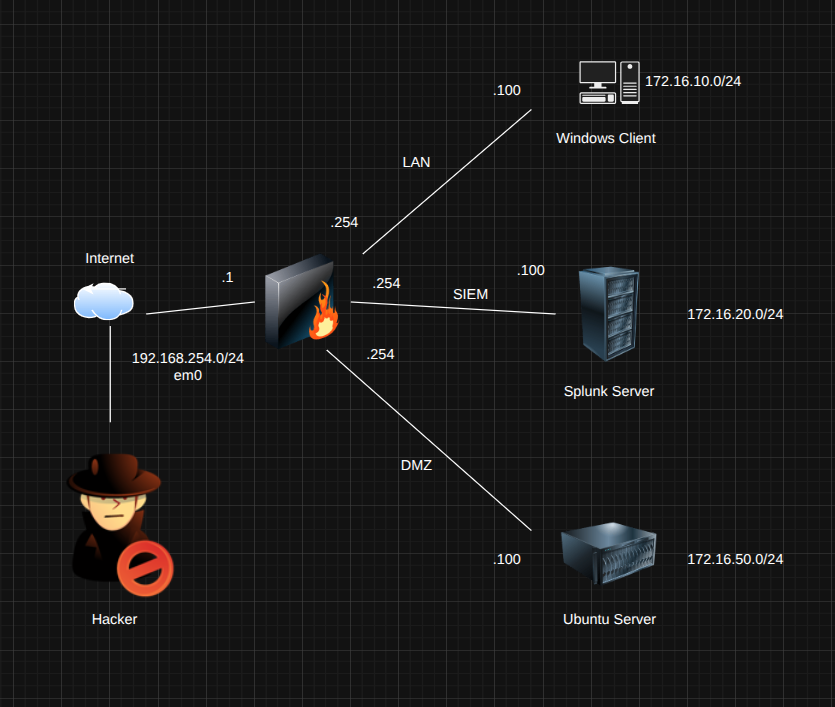
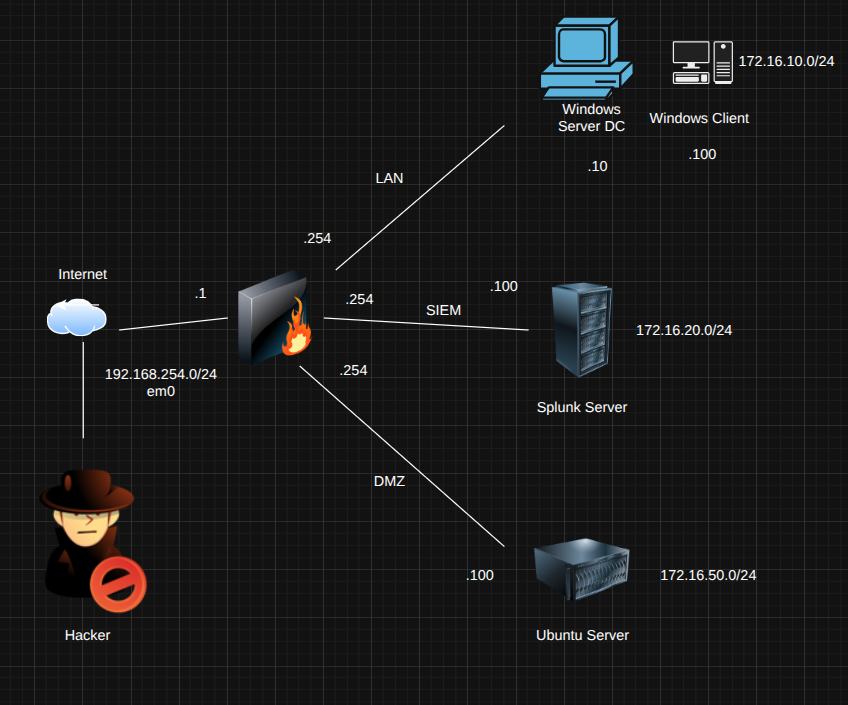
lab3

diff --git a/_posts/2026-03-11-SOC-lab2.md b/_posts/2026-03-11-SOC-lab2.md
@@ -1,0 +1,184 @@
+---
+title: "SOC lab part 2"
+date: 2026-03-11 12:00:00 +0700
+categories: [lab]
+tags: [lab]
+image:
+  path: /assets/img/posts/SOC_LAB/banner.png
+---
+Phần 2 của lab tập trung vào 3 nội dung chính:
+- Xây dựng Active Directory
+- Thiết lập Remote Access VPN bằng OpenVPN kết hợp xác thực Active Directory
+- Cấu hình Dynamic DNS (No-IP) và xuất file cấu hình VPN client
+
+## Tạo Windows Server
+Đầu tiên, đặt IP tĩnh cho Windows Server.
+
+![alt text](/assets/img/posts/SOC_LAB2/image-50.png)
+
+Kiểm tra kết nối đến pfSense bằng lệnh ping.
+![alt text](/assets/img/posts/SOC_LAB2/image-51.png)
+
+Cài đặt Active Directory Domain Services (AD DS).
+![alt text](/assets/img/posts/SOC_LAB2/image-52.png)
+![alt text](/assets/img/posts/SOC_LAB2/image-53.png)
+![alt text](/assets/img/posts/SOC_LAB2/image-54.png)
+
+Sau bước này, Windows Server sẽ được nâng cấp thành Domain Controller.
+Domain Controller có nhiệm vụ:
+- Lưu cơ sở dữ liệu người dùng
+- Xác thực đăng nhập
+- Quản lý máy tính trong domain
+- Áp dụng chính sách (Group Policy)
+
+Trước khi promote lên Domain Controller, cần đổi hostname phù hợp.
+![alt text](/assets/img/posts/SOC_LAB2/image-1.png)
+Nhấn Promote.
+![alt text](/assets/img/posts/SOC_LAB2/image-55.png)
+
+Chọn Add a new forest, sau đó nhập domain name soclab.local.
+Tiếp theo giữ cấu hình mặc định cho các bước còn lại.
+
+## Verify DNS Configuration
+Trong Active Directory, máy trạm không tìm Domain Controller bằng IP trực tiếp mà thông qua DNS record.
+
+Ví dụ domain: soclab.local
+
+Khi một máy Windows join domain hoặc đăng nhập, luồng xử lý sẽ là:
+Client -> DNS query -> tìm Domain Controller
+
+Ví dụ truy vấn:
+_ldap._tcp.dc._msdcs.soclab.local
+
+DNS sẽ trả về địa chỉ của Domain Controller, ví dụ 192.168.10.10.
+
+## Xác minh DNS
+![alt text](/assets/img/posts/SOC_LAB2/image-56.png)
+
+## Install a Certificate Authority (AD CS)
+- Ta cấu hình DC là CA luôn
+- CA có nhiệm vụ dùng để xác minh và cung cấp các certificates
+![alt text](/assets/img/posts/SOC_LAB2/image-57.png)
+![alt text](/assets/img/posts/SOC_LAB2/image-58.png)
+![alt text](/assets/img/posts/SOC_LAB2/image-59.png)
+
+## Join Windows 10 vào Domain
+Tiếp theo mình sẽ để Windows 10 join vào domain 
+- set ip static
+- default gateway là pfsense ip Lan
+- dns server sẽ là ip của AD (để có thể join vào domain)
+![alt text](/assets/img/posts/SOC_LAB2/image-60.png)
+- Nhập domain soclab.local
+![alt text](/assets/img/posts/SOC_LAB2/image-61.png)
+
+Trên windows server, tạo một user domain cho máy Windows 10 client.
+Press Win + R -> type dsa.msc -> Enter.
+![alt text](/assets/img/posts/SOC_LAB2/image-62.png)
+![alt text](/assets/img/posts/SOC_LAB2/image-63.png)
+
+Đăng nhập lại client bằng tài khoản socuser/password và xác nhận thành công.
+![alt text](/assets/img/posts/SOC_LAB2/image-64.png)
+
+## Tạo VPN Access trên pfSense với xác thực Active Directory
+Phần này sẽ cấu hình VPN trên pfSense để người dùng đăng nhập bằng tài khoản AD.
+Mục tiêu là cho phép truy cập từ bên ngoài vào mạng nội bộ như đang ở LAN, đồng thời vẫn quản lý quyền truy cập tập trung bằng AD.
+
+### Setup OpenVPN Server with AD (LDAP) Auth on pfSense
+Chọn dns server là DC-IP để khi các thiết bị có thể resolve được domain soclab.loc 
+![alt text](/assets/img/posts/SOC_LAB2/image-65.png)
+![alt text](/assets/img/posts/SOC_LAB2/image-66.png)
+
+Trong trường hợp các domain thông thường thì DC sẽ tự động forward đến dns server khác (use root hints if no forwarders are available có nghĩa là gì)
+![alt text](/assets/img/posts/SOC_LAB2/image-2.png)
+
+Tạo Server Certificate với RSA 4096 bits và sha512
+![alt text](/assets/img/posts/SOC_LAB2/image-67.png)
+
+Tạo user OpenVPN và user certificate.
+![alt text](/assets/img/posts/SOC_LAB2/image-68.png)
+![alt text](/assets/img/posts/SOC_LAB2/image-69.png)
+
+Tạo 1 LDAP Authentication Server
+Auth server trỏ về Domain Controller.
+- Tên SOC-LDAP
+- IP là DC IP 
+- Port 389 cho LDAP (636 LDAPS)
+- Auth container là CN=Users,DC=soclab,DC=local (pfSense sẽ tìm kiếm ở đây trước)
+- Bind credentials: CN=pfsense bind,CN=Users,DC=soclab,DC=local pfSense dùng tài khoản này để truy vấn user khác cần xác thực 
+
+![alt text](/assets/img/posts/SOC_LAB2/image-70.png)
+![alt text](/assets/img/posts/SOC_LAB2/image-71.png)
+![alt text](/assets/img/posts/SOC_LAB2/image-72.png)
+
+Lưu ý: tên CN phải khớp tên người dùng trong AD (có thể có dấu cách), và User naming attribute đặt là sAMAccountName.
+![alt text](/assets/img/posts/SOC_LAB2/image-73.png)
+![alt text](/assets/img/posts/SOC_LAB2/image-74.png)
+
+## Creating the OpenVPN Server
+- Description : Soclab_openvpn
+- Server Mode: Remote Access (SSL/TLS + User Auth)
+- Backend for Authentication: SOC-LDAP (Since we are going to use AD for authentication)
+- Local Port: 1194
+
+![alt text](/assets/img/posts/SOC_LAB2/image-76.png)
+![alt text](/assets/img/posts/SOC_LAB2/image-77.png)
+
+Verify "Initialization Sequence Completed" xuất hiện ở system log
+
+![alt text](/assets/img/posts/SOC_LAB2/image-78.png)
+![alt text](/assets/img/posts/SOC_LAB2/image-79.png)
+
+- Tạo rule trên Wan: cho phép ipv4 UDP port 1194
+- Tạo rule trên OpenVpn: cho phép source đã cấu hình ở trên (10.10.10.0/24)
+
+![alt text](/assets/img/posts/SOC_LAB2/image-80.png)
+
+## Install the OpenVPN Client Export Utility
+Thông thường, để kết nối VPN cần rất nhiều thông tin: IP server, cổng kết nối, thuật toán mã hóa, chứng chỉ (CA/User Cert), và TLS key.
+
+Nếu không có công cụ này, ta tự copy/paste từng khối chứng chỉ vào file cấu hình, rất dễ nhầm.
+
+Client Export Utility cho phép pfSense sẽ gom toàn bộ cấu hình cần thiết vào một file duy nhất. Chỉ cần tải về và import là có thể sử dụng.
+![alt text](/assets/img/posts/SOC_LAB2/image-81.png)
+![alt text](/assets/img/posts/SOC_LAB2/image-82.png)
+
+- Test connection 
+```
+nqghuy@nqghuy:~/Documents/LAB$ sudo openvpn  pfSense-UDP4-1194-OpenVPN-User-Cert-config\ \(1\).ovpn 
+2026-03-13 14:40:10 OpenVPN 2.6.19 x86_64-pc-linux-gnu [SSL (OpenSSL)] [LZO] [LZ4] [EPOLL] [PKCS11] [MH/PKTINFO] [AEAD] [DCO]
+2026-03-13 14:40:10 library versions: OpenSSL 3.0.13 30 Jan 2024, LZO 2.10
+2026-03-13 14:40:10 DCO version: N/A
+Enter Auth Username: pfsensebind
+Enter Auth Password: ••••••••••              
+2026-03-13 14:40:16 TCP/UDP: Preserving recently used remote address: [AF_INET]172.16.114.133:1194
+2026-03-13 14:40:16 UDPv4 link local: (not bound)
+2026-03-13 14:40:16 UDPv4 link remote: [AF_INET]172.16.114.133:1194
+2026-03-13 14:40:16 WARNING: this configuration may cache passwords in memory -- use the auth-nocache option to prevent this
+2026-03-13 14:40:16 [OpenVPN-Server-Cert] Peer Connection Initiated with [AF_INET]172.16.114.133:1194
+2026-03-13 14:40:17 TUN/TAP device tun0 opened
+2026-03-13 14:40:17 net_iface_mtu_set: mtu 1500 for tun0
+2026-03-13 14:40:17 net_iface_up: set tun0 up
+2026-03-13 14:40:17 net_addr_v4_add: 10.10.10.2/24 dev tun0
+2026-03-13 14:40:17 Initialization Sequence Completed
+```
+![alt text](/assets/img/posts/SOC_LAB2/image-83.png)
+
+## Set Up Dynamic DNS (DDNS) on pfSense
+Đa phần mạng internet gia đình dùng IP động. Nghĩa là sau mỗi lần modem reset hoặc theo chu kỳ, ISP có thể đổi IP public của bạn.
+DDNS giúp giải quyết vấn đề này bằng cách gắn một hostname cố định (ví dụ: mysoclab.ddns.net) với IP public hiện tại.
+
+Cơ chế hoạt động: mỗi khi IP thay đổi, pfSense sẽ tự cập nhật IP mới lên nhà cung cấp DDNS.
+
+![alt text](/assets/img/posts/SOC_LAB2/image-84.png)
+![alt text](/assets/img/posts/SOC_LAB2/image-85.png)
+
+## Configure OpenVPN to Use DDNS Hostname
+![alt text](/assets/img/posts/SOC_LAB2/image-86.png)
+```
+nqghuy@nqghuy:~/Documents/LAB$ strings pfSense-UDP4-1194-OpenVPN-User-Cert-config.ovpn  | grep remote
+remote mysoclab.ddns.net 1194 udp4
+remote-cert-tls server
+```
+
+![alt text](/assets/img/posts/SOC_LAB2/image-87.png)
+Sau khi cập nhật hostname DDNS vào cấu hình OpenVPN, kết nối remote access hoạt động ổn định.

diff --git a/_posts/2026-03-11-SOC-LAB3.MD b/_posts/2026-03-11-SOC-LAB3.MD
@@ -1,0 +1,112 @@
+---
+title: "SOC lab part 3"
+date: 2026-03-12 12:00:00 +0700
+categories: [lab]
+tags: [lab]
+image:
+  path: /assets/img/posts/SOC_LAB/banner.png
+---
+Phần 3 của lab tập trung vào cacs nội dung chính:
+- Build dashboard cho splunk
+- Tạo alert và mô phỏng các cuộc tấn công
+- Custom rules cho suricata 
+## Create new dashboard
+![alt text](/assets/img/posts/SOC_LAB3/image.png)
+![alt text](/assets/img/posts/SOC_LAB3/image-1.png)
+
+## Add Panels (Boxes)
+
+### Alerts Count (Single Value)
+Box 1 — Alerts Count (Single Value)
+```
+index=* suricata 
+| rex field=_raw "(?<json_part>\{.*\})" 
+| spath input=json_part 
+| search event_type=alert 
+| stats count
+```
+![alt text](/assets/img/posts/SOC_LAB3/image-2.png)
+
+Box 2 — Signature-Based Alert Count
+```
+index=* suricata 
+| rex field=_raw "(?<json_part>\{.*\})" 
+| spath input=json_part 
+| search event_type=alert 
+| stats count by alert.signature
+| rename alert.signature as Catogeries
+
+```
+
+Box 3 - Top Attacker IPs
+(Excludes local/private IPs) Query:
+```
+index=pfsense suricata 
+| rex field=_raw "(?<json_part>\{.*\})" 
+| spath input=json_part 
+| search event_type=alert 
+| where src_ip != "192.168.254.128"
+| stats count as "Attacker IPs" by src_ip 
+| sort - "Attacker IPs"
+```
+
+Box 5 - Severity Mapping Over Time
+```
+index=pfsense "suricata"
+| rex field=_raw "(?<json_part>\{.*\})" 
+| spath input=json_part 
+| search event_type=alert 
+| eval sev_label=case(
+    'alert.severity'=1,"High",
+    'alert.severity'=2,"Medium",
+    'alert.severity'=3,"Low",
+    true(),"Unknown"
+)
+| timechart span=1h count by sev_label
+```
+
+Box 6 — Protocol Breakdown
+```
+index=pfsense suricata 
+| rex field=_raw "(?<json_part>\{.*\})" 
+| spath input=json_part 
+| search event_type=alert 
+| eval app=coalesce(app_proto, proto)
+| stats count by app
+| sort - count
+```
+Box 7 — Recent Alerts (Table)
+```
+index=pfsense suricata 
+| rex field=_raw "(?<json_part>\{.*\})" 
+| spath input=json_part 
+| search event_type=alert
+| eval app=coalesce(app_proto,proto)
+| eval sev_label=case(
+    'alert.severity'=1,"High",
+    'alert.severity'=2,"Medium",
+    'alert.severity'=3,"Low",
+    true(),"Unknown"
+)
+| table _time sev_label src_ip dest_ip alert.signature alert.category app http.hostname http.url
+| sort - time
+| head 20
+```
+![alt text](/assets/img/posts/SOC_LAB3/image-3.png)
+
+## Create high severity alert
+```
+index=pfsense suricata 
+| rex field=_raw "(?<json_part>\{.*\})" 
+| spath input=json_part 
+| search event_type=alert alert.severity=1
+```
+![alt text](/assets/img/posts/SOC_LAB3/image-4.png)
+Giới hạn tràn alert bằng cách Suppress triggering 10' đối với src_ip
+![alt text](/assets/img/posts/SOC_LAB3/image-5.png)
+
+### Mô phỏng tấn công và nhận alert 
+### Scan port
+![alt text](/assets/img/posts/SOC_LAB3/image-6.png)
+Splunk nâng tổng số alert, ghi nhận trường hợp scan port
+![alt text](/assets/img/posts/SOC_LAB3/image-7.png)

diff --git a/_posts/2026-03-10-SOC-lab.md b/_posts/2026-03-10-SOC-lab.md
@@ -164,7 +164,7 @@ Tiếp theo, mình bật receiving port trên Splunk.
 
 ## 4. Cài Windows client, Sysmon và Splunk UF
 
-Tiếp theo là máy Windows client. Máy này sẽ được cài thêm Sysmon và Splunk Universal Forwarder.
+Tiếp theo là máy Windows client (mình sẽ cài bản home pro để có thể sử dụng AD sau này). Máy này sẽ được cài thêm Sysmon và Splunk Universal Forwarder.
 
 Lý do mình dùng Sysmon là vì:
 
@@ -272,5 +272,9 @@ Cấu hình pfsense gửi log cho splunk
 ![alt text](/assets/img/posts/SOC_LAB/image-44.png)
 ![alt text](/assets/img/posts/SOC_LAB/image-43.png)
 nhận được log thành công (tip: tick everything)
+Đảm bảo phải update rules và tick chọn hết rules.
+![alt text](/assets/img/posts/SOC_LAB/image-46.png)
+![alt text](/assets/img/posts/SOC_LAB/image-45.png)
+1 vài lưu ý cho log suricata, đảm Disable cả 3 mục: Hardware Checksum Offloading, Hardware TCP Segmentation Offloading, và Hardware Large Receive Offloading và gửi log dưới dạng file và https://hurricanelabs.com/splunk-tutorials/your-all-in-one-guide-to-setting-up-pfsense-and-suricata-in-splunk/
 
 Như vậy là phần nền của SOC lab đã xong: có firewall để phân mạng, có Splunk để nhận log, có forwarder ở cả Linux và Windows, đồng thời đã cài Sysmon và Suricata để chuẩn bị cho các phần rule, detection và dashboard ở các bài tiếp theo.
